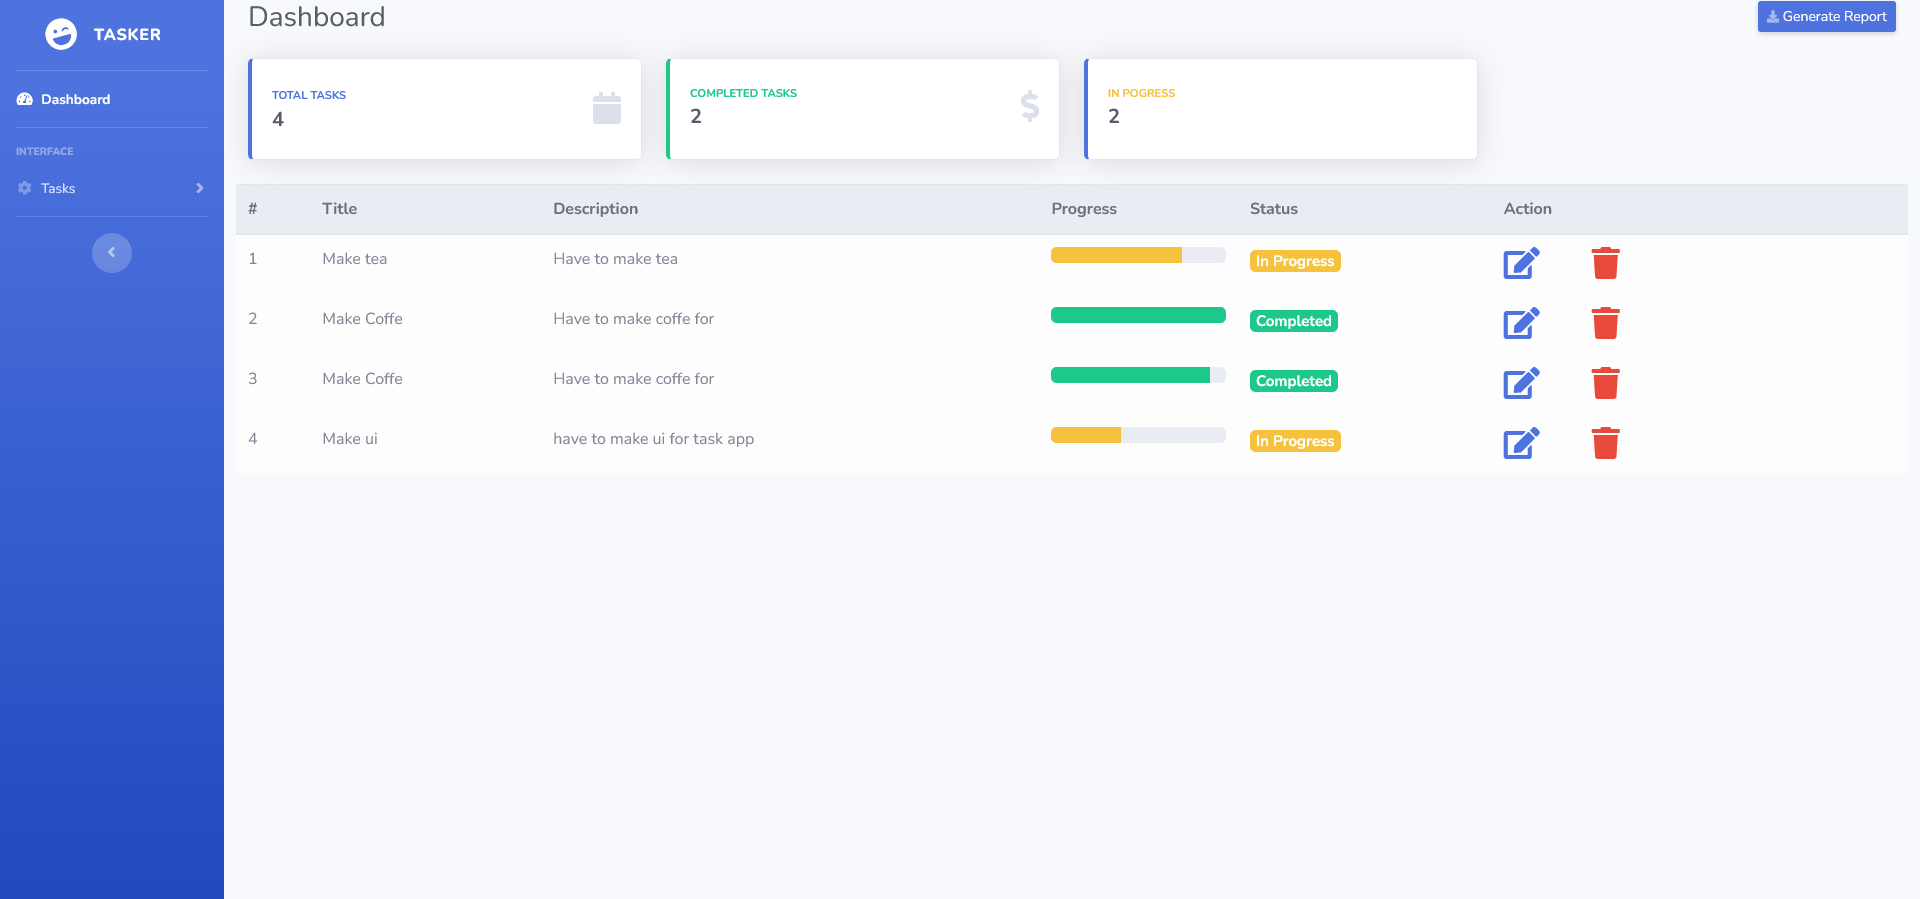
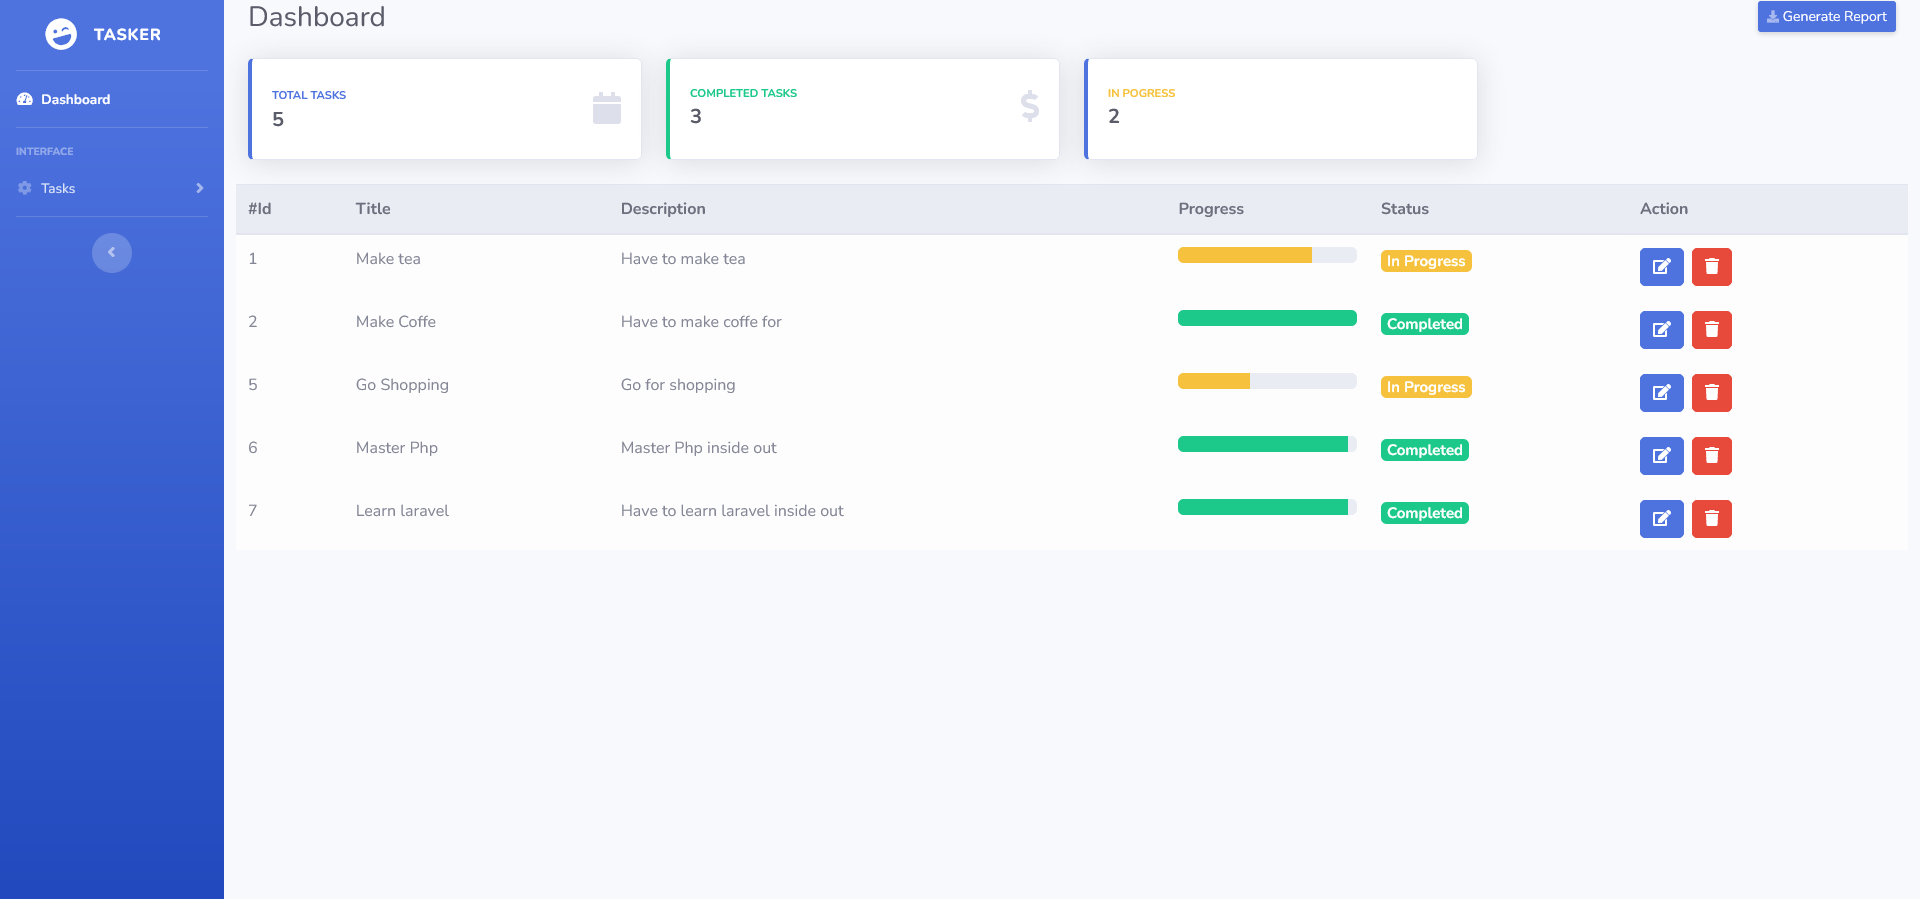
almost done

diff --git a/resources/views/index.blade.php b/resources/views/index.blade.php
@@ -77,7 +77,7 @@
     <table class="table table-light">
         <thead class="thead-light">
             <tr>
-                <th>#</th>
+                <th>#Id</th>
                 <th>Title</th>
                 <th>Description</th>
                 <th>Progress</th>
@@ -92,7 +92,7 @@
             <tr>
                 <td>{{$task->id}}</td>
                 <td class="text-ucfirst">{{ ucfirst($task->title) }}</td>
-                <td>{{$task->description}}</td>
+                <td>{{ucfirst($task->description)}}</td>
                 <td>
                    @if ($task->progress >=90)
                        <div class="progress">
@@ -114,9 +114,13 @@
 
                 @endif</td>
 
-                <td>
-                    <a href="{{ route('task.edit',$task->id) }}"> <i class="fas fa-edit fa-2x  text-primary-300"></i> </a>
-                    <a href="{{ route('task.destroy',$task->id) }}" class="text-danger mx-5"><i class="fas fa-trash fa-2x text-red"></i></a>
+                <td class="d-flex ">
+                    <a href="{{ route('task.edit',$task->id) }}" class="btn btn-primary"> <i class="fas fa-edit  text-primary-300"></i> </a>
+                    <form action="{{ route('task.destroy',$task->id) }}" method="post" enctype="multipart/form-data">
+                        @csrf
+                        @method('delete')
+                    <button type="submit" class=" btn btn-danger mx-2"><i class="fas fa-trash "></i></button>
+                    </form>
                 </td>
             </tr>
             @endforeach

diff --git a/app/Http/Controllers/TaskController.php b/app/Http/Controllers/TaskController.php
@@ -83,6 +83,7 @@ class TaskController extends Controller
      */
     public function destroy(Task $task)
     {
-       return $task;
+       Task::destroy($task->id);
+       return redirect()->back();
     }
 }
